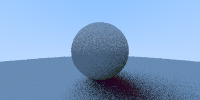
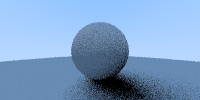
Gather metrics and output them before the program terminates

diff --git a/src/main.rs b/src/main.rs
@@ -2,6 +2,7 @@ mod average;
 mod camera;
 mod color;
 mod hittable;
+mod metrics;
 mod ray;
 mod render;
 mod texture;
@@ -11,13 +12,14 @@ use crate::average::Scalable;
 use crate::camera::Camera;
 use crate::color::Color;
 use crate::hittable::{Hittable, Sphere};
+use crate::metrics::Metrics;
 use crate::ray::Ray;
 use crate::render::Renderer;
 use crate::vector::Vec3;
 use rand::rngs::ThreadRng;
 
-const NUM_ANTIALIAS_SAMPLES: u32 = 10;
-const MAX_REFLECTIONS: u8 = 5;
+const NUM_ANTIALIAS_SAMPLES: u32 = 8;
+const MAX_REFLECTIONS: u8 = 4;
 const FILENAME: &str = "fractal10.png";
 const OUTPUT_DIR: &str = "output";
 
@@ -29,6 +31,20 @@ fn main() {
         origin: Vec3::zero(),
     };
 
+    let r = Renderer {
+        width: 200,
+        height: 100,
+        output_dir: OUTPUT_DIR,
+        filename: FILENAME,
+        camera,
+        samples: NUM_ANTIALIAS_SAMPLES,
+    };
+    let metrics = r.write(&scene(), color_hit_by);
+    eprintln!("{}", metrics.describe());
+    eprintln!("{:?}", metrics);
+}
+
+fn scene() -> Hittable {
     // Let's put a sphere in the middle of the scene.
     let little_sphere = Hittable::Sphere(Sphere {
         center: Vec3 {
@@ -47,17 +63,7 @@ fn main() {
         },
         radius: 100.0,
     });
-    let scene = Hittable::Many(vec![big_sphere, little_sphere]);
-
-    let r = Renderer {
-        width: 200,
-        height: 100,
-        output_dir: OUTPUT_DIR,
-        filename: FILENAME,
-        camera,
-        samples: NUM_ANTIALIAS_SAMPLES,
-    };
-    r.write(&scene, color_hit_by)
+    Hittable::Many(vec![big_sphere, little_sphere])
 }
 
 /// Render the nice blue/white background
@@ -68,25 +74,38 @@ fn background(r: &Ray) -> Color {
     white.vec().interpolate(&blue.vec(), t).into()
 }
 
-fn color_hit_by(ray: &Ray, scene: &Hittable, rng: &mut ThreadRng, depth: u8) -> Color {
+fn color_hit_by(
+    ray: &Ray,
+    scene: &Hittable,
+    rng: &mut ThreadRng,
+    depth: u8,
+    metrics: &mut Metrics,
+) -> Color {
     // What color should this pixel be?
     // If the ray hits an object:
     if let Some(hit) = scene.hit(&ray, 0.001, std::f64::MAX) {
-        // It could reflect off that object
+        // It should reflect off that object, and we can calculate that reflection's colour recursively.
+        // Note, however, that this recursion could build up a very large stack if the reflection
+        // bounces around too much! Then the program would stack overflow.
+        // Hence the recursion_depth parameter.
         if depth < MAX_REFLECTIONS {
             let target = hit.p + hit.normal + texture::random_in_unit_sphere(rng);
             let reflected_ray = Ray {
                 origin: hit.p,
                 direction: target - hit.p,
             };
-            color_hit_by(&reflected_ray, &scene, rng, depth + 1).scale(0.5)
-        //
+            color_hit_by(&reflected_ray, &scene, rng, depth + 1, metrics).scale(0.5)
+        // If the recursion limit is hit, just... add no colour.
         } else {
-            (hit.normal + Vec3::new_uniform(1.0)).scale(0.5).into()
+            metrics.rays_out_of_reflect += 1;
+            Color::new_uniform(0.0)
         }
 
     // Otherwise, it'll be the color of the background.
     } else {
+        if depth > 0 {
+            metrics.reflected_into_background += 1;
+        }
         background(ray)
     }
 }

diff --git a/src/render.rs b/src/render.rs
@@ -2,6 +2,7 @@ use crate::average::Average;
 use crate::camera::Camera;
 use crate::color::Color;
 use crate::hittable::Hittable;
+use crate::metrics::Metrics;
 use crate::ray::Ray;
 use crate::vector::Vec3;
 use image;
@@ -21,12 +22,13 @@ pub struct Renderer {
 
 impl Renderer {
     /// `color_hit_by` computes the color of the object the ray hits.
-    pub fn write<F>(&self, scene: &Hittable, color_hit_by: F)
+    pub fn write<F>(&self, scene: &Hittable, color_hit_by: F) -> Metrics
     where
-        F: Fn(&Ray, &Hittable, &mut ThreadRng, u8) -> Color,
+        F: Fn(&Ray, &Hittable, &mut ThreadRng, u8, &mut Metrics) -> Color,
     {
         let mut img_buf = image::ImageBuffer::new(self.width, self.height);
         let mut rng = rand::thread_rng();
+        let mut metrics = Metrics::new();
 
         // Iterate over the coordinates and pixels of the image
         for (x, y, pixel) in img_buf.enumerate_pixels_mut() {
@@ -34,6 +36,7 @@ impl Renderer {
             // all together. This is called "antialiasing" and helps the image look smoother.
             let mut avg_color = Average::<Vec3>::new();
             for _ in 0..self.samples {
+                metrics.rays_traced_total += 1;
                 // Choose a random point inside this pixel
                 let rx: f64 = rng.gen();
                 let ry: f64 = rng.gen();
@@ -43,7 +46,7 @@ impl Renderer {
                 // Then get the ray from the camera to that point,
                 // check what color it hits.
                 let ray = self.camera.ray_to_point(u, v);
-                let color_at_this_point = color_hit_by(&ray, &scene, &mut rng, 0);
+                let color_at_this_point = color_hit_by(&ray, &scene, &mut rng, 0, &mut metrics);
 
                 // To do antialiasing, average this color with all the other points inside this pixel.
                 avg_color.push(color_at_this_point.vec());
@@ -57,5 +60,6 @@ impl Renderer {
         // Write the image to disk
         let path = Path::new(self.output_dir).join(self.filename);
         img_buf.save(path).unwrap();
+        metrics
     }
 }

diff --git a/src/metrics.rs b/src/metrics.rs
@@ -1,0 +1,26 @@
+#[derive(Debug)]
+pub struct Metrics {
+    /// How many rays were eventually reflected into the background
+    pub reflected_into_background: u64,
+    // How many rays hit the reflection limit
+    pub rays_out_of_reflect: u64,
+    // How many rays were traced in total
+    pub rays_traced_total: u64,
+}
+
+impl Metrics {
+    pub fn new() -> Self {
+        Metrics {
+            reflected_into_background: 0,
+            rays_out_of_reflect: 0,
+            rays_traced_total: 0,
+        }
+    }
+
+    pub fn describe(&self) -> String {
+        format!(
+            "{}% of reflected rays eventually hit the background",
+            self.reflected_into_background * 100 / self.rays_traced_total
+        )
+    }
+}
